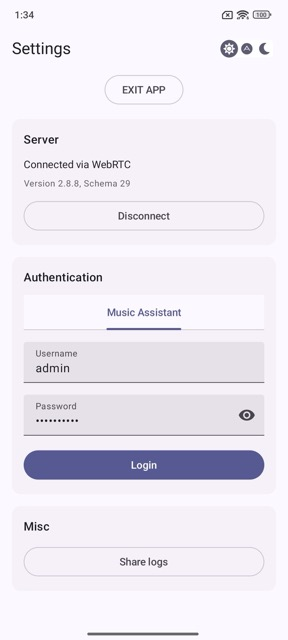
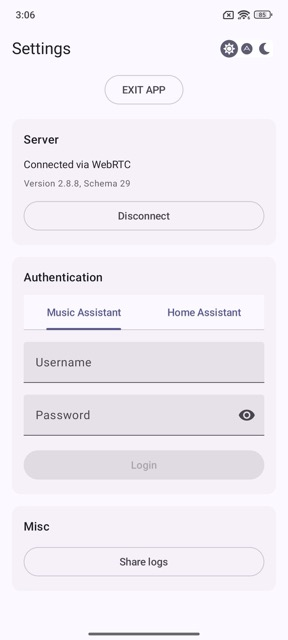
Update WebRTC screenshots

diff --git a/docs/app-documentation/connection-to-server-webrtc.md b/docs/app-documentation/connection-to-server-webrtc.md
@@ -26,7 +26,7 @@ After connecting, you will be asked to sign in. Choose one of the following meth
 | **Home Assistant** | Sign in using Home Assistant OAuth. The Home Assistant user must be linked to the Music Assistant server. |
 
 ![Sign in with Music Assistant credentials](screenshots/connection-to-server-webrtc/sign-in-ma-user.jpeg)
-![Sign in using Home Assistant](screenshots/connection-to-server-direct/sign-in-using-ha.jpeg)
-![Fill in Home Assistant credentials](screenshots/connection-to-server-direct/ha-sign-in-screen.jpeg)
+![Sign in using Home Assistant](screenshots/connection-to-server-webrtc/sign-in-using-ha.jpeg)
+![Fill in Home Assistant credentials](screenshots/connection-to-server-webrtc/ha-sign-in-screen.jpeg)
 
 After signing in, you can configure the [Local Player](local-sendspin-player-settings.md) or [start using the app](home.md) right away.
